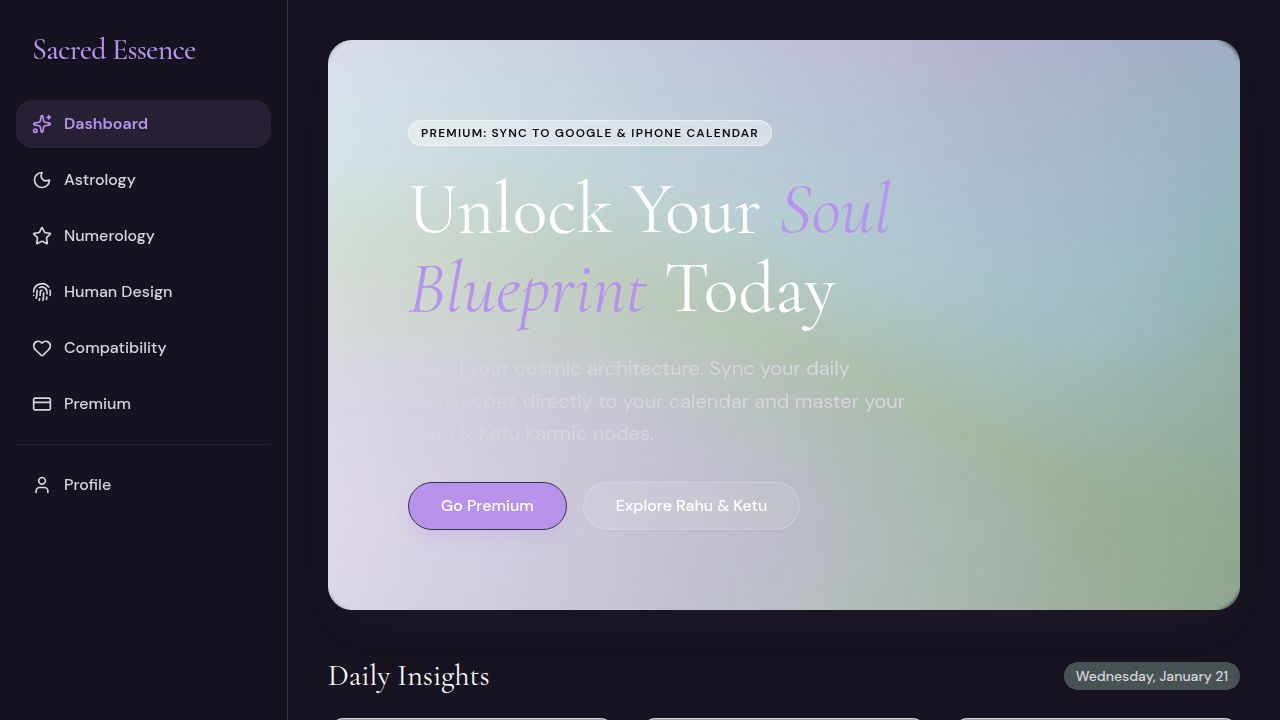
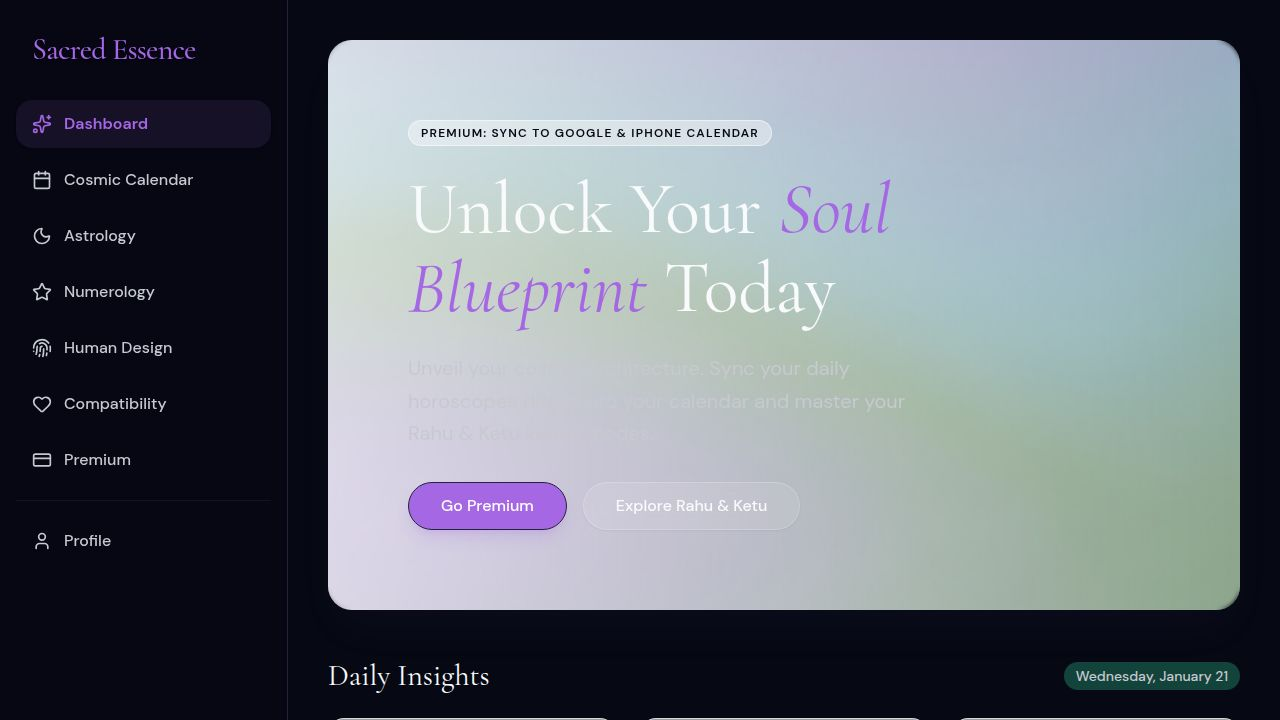
Update app colors to a deep blue, purple, and emerald green theme
Replaces the "Midnight Temple" theme with a "Cosmic Nebula" palette, updating CSS variables for background, foreground, primary, secondary, muted, and accent colors.

Replit-Commit-Author: Agent
Replit-Commit-Session-Id: 33afe621-18d6-4509-bf7e-7e6ade031875
Replit-Commit-Checkpoint-Type: full_checkpoint
Replit-Commit-Event-Id: a66f48da-4454-479c-95fc-4132a507b0af
Replit-Commit-Screenshot-Url: https://storage.googleapis.com/screenshot-production-us-central1/1e5cd688-88e5-48a7-8d3c-0024f57efad8/33afe621-18d6-4509-bf7e-7e6ade031875/RrRgrEo
Replit-Helium-Checkpoint-Created: true

diff --git a/client/src/index.css b/client/src/index.css
@@ -50,67 +50,64 @@
 }
 
 :root {
-  /* Elegant "Midnight Temple" Theme - Deep Emerald & Gold/Cream */
-  --background: 160 30% 6%; /* Extremely deep forest/emerald black */
-  --foreground: 40 30% 95%; /* Cream white for high contrast */
+  /* Cosmic Nebula Theme - Deep Blue, Purple, and Emerald Green */
+  --background: 230 50% 5%; /* Deep Midnight Blue */
+  --foreground: 210 20% 98%; /* Icy White */
 
-  --card: 160 30% 10%; /* Slightly lighter emerald */
-  --card-foreground: 40 30% 95%;
+  --card: 230 45% 10%; /* Slightly lighter navy */
+  --card-foreground: 210 20% 98%;
 
-  --popover: 160 30% 10%;
-  --popover-foreground: 40 30% 95%;
+  --popover: 230 45% 10%;
+  --popover-foreground: 210 20% 98%;
 
-  /* Primary: Sacred Gold */
-  --primary: 45 60% 65%; 
-  --primary-foreground: 160 30% 5%;
+  /* Primary: Vibrant Nebula Purple */
+  --primary: 270 70% 65%; 
+  --primary-foreground: 230 50% 5%;
 
-  /* Secondary: Soft Sage */
-  --secondary: 150 20% 20%;
-  --secondary-foreground: 150 40% 90%;
+  /* Secondary: Ethereal Emerald Green */
+  --secondary: 160 60% 50%;
+  --secondary-foreground: 230 50% 5%;
 
   /* Muted */
-  --muted: 160 20% 15%;
-  --muted-foreground: 160 10% 75%;
+  --muted: 230 30% 15%;
+  --muted-foreground: 230 10% 80%;
 
-  /* Accent: Copper/Rose */
-  --accent: 25 50% 60%;
-  --accent-foreground: 160 30% 5%;
+  /* Accent: Electric Cyan Blue */
+  --accent: 200 80% 60%;
+  --accent-foreground: 230 50% 5%;
 
-  --border: 160 20% 18%;
-  --input: 160 20% 18%;
-  --ring: 45 60% 65%;
+  --border: 230 30% 18%;
+  --input: 230 30% 18%;
+  --ring: 270 70% 65%;
 
-  --chart-1: 45 60% 65%; 
-  --chart-2: 150 40% 65%;
-  --chart-3: 25 50% 65%;
+  --chart-1: 270 70% 65%; 
+  --chart-2: 160 60% 50%;
+  --chart-3: 200 80% 60%;
 }
 
 .dark {
-  /* Dark mode stays consistent with the Midnight Temple theme */
-  --background: 160 40% 4%;
-  --foreground: 40 30% 95%;
+  /* Consistent with Nebula theme */
+  --background: 230 60% 3%;
+  --foreground: 210 20% 98%;
 
-  --card: 160 40% 8%;
-  --card-foreground: 40 30% 95%;
+  --card: 230 55% 8%;
+  --card-foreground: 210 20% 98%;
 
-  --popover: 160 40% 8%;
-  --popover-foreground: 40 30% 95%;
+  --primary: 270 80% 70%;
+  --primary-foreground: 230 60% 3%;
 
-  --primary: 45 70% 60%;
-  --primary-foreground: 160 40% 4%;
+  --secondary: 160 70% 55%;
+  --secondary-foreground: 230 60% 3%;
 
-  --secondary: 150 20% 15%;
-  --secondary-foreground: 150 40% 85%;
+  --muted: 230 40% 12%;
+  --muted-foreground: 230 15% 85%;
 
-  --muted: 160 30% 12%;
-  --muted-foreground: 160 10% 70%;
+  --accent: 200 90% 65%;
+  --accent-foreground: 230 60% 3%;
 
-  --accent: 25 60% 55%;
-  --accent-foreground: 160 40% 4%;
-
-  --border: 160 30% 15%;
-  --input: 160 30% 15%;
-  --ring: 45 70% 60%;
+  --border: 230 40% 15%;
+  --input: 230 40% 15%;
+  --ring: 270 80% 70%;
 }
 
 @layer base {
